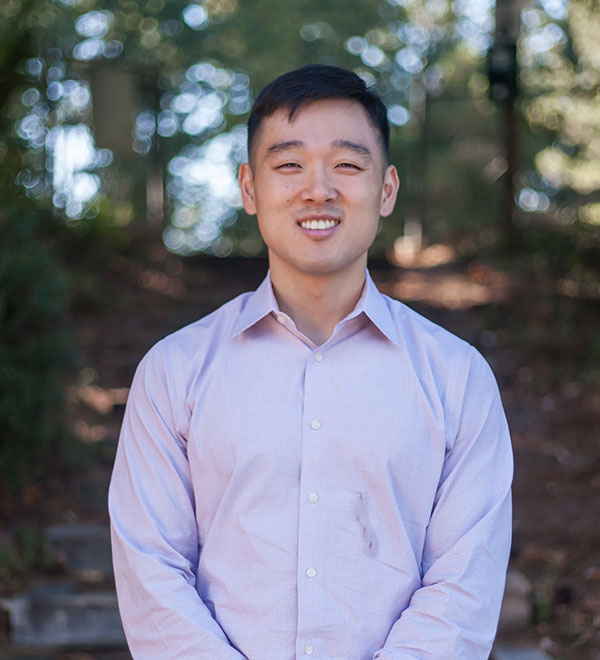
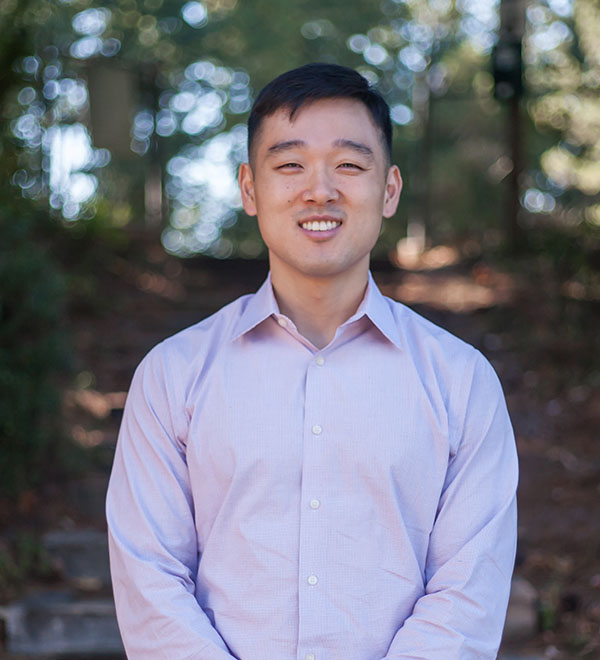
updates

diff --git a/imnew.html b/imnew.html
@@ -287,7 +287,7 @@
 					<h2>Join us for Sunday celebration</h2>
 				</div>
 				<div class="twelve column bottom_buffer centered">
-					<p>Our Sunday celebrations are prayerful, Spirit-filled, Bible-based times of worship, teaching and breaking bread together. We would love to see you this Sunday.  You can find us at the following times and locations:</p>
+					<p>One of the best ways to get to know our community is to visit us on a Sunday.  Our Sunday celebrations are prayerful, Spirit-filled, Bible-based times of worship, teaching and breaking bread together. We would love to see you this Sunday.  You can find us at the following times and locations:</p>
 				</div>
 				<div class="six column centered bottom_buffer">
 					<h4 class="bottom_buffer">Midtown Service<br>11:00 AM</h4>
@@ -301,7 +301,7 @@
 					<p><i>Service for professionals, married couples and families. Sunday school offered for +4yo. Cry room available for younger children.</i></p>
 					<p>Westminster Presbyterian Church<br>
 					<a>1438 Sheridan Road NE<br>Atlanta, GA 30324</a></p>
-					<p class="top_buffer"><a class="primary_button" id="kids_button">Parents, need childcare?</a></p>
+					<p class="top_buffer"><a class="primary_button" id="kids_button">Parents, have kids?</a></p>
 				</div>
 			</div>
 		</div>
@@ -367,7 +367,7 @@
 		<div class="full_container">
 			<div class="container end_div top_buffer">
 				<div class="twelve column block_title">
-					<h2>Learn more about us</h2>
+					<h2>Learn More About Us</h2>
 				</div>
 				<div class="four column learn_more_link">
 					<a>

diff --git a/story.html b/story.html
@@ -82,7 +82,7 @@
 		background-size: 100% auto;
 		position: relative;
 		float: left;
-		padding: 100px 0 50px 0;
+		padding: 100px 0 100px 0;
 	}
 
 	.full_container#story_block_3 {
@@ -93,7 +93,7 @@
 		background-size: 100% auto;
 		position: relative;
 		float: left;
-		padding: 150px 0 150px 0;
+		padding: 100px 0 200px 0;
 	}
 
 
@@ -214,10 +214,10 @@
 			</div>
 		</div>
 		<div class="full_container story_block"  id="story_block_2">
-			<div class="two column">
+			<div class="three column">
 				<p></p>
 			</div>
-			<div class="five column">
+			<div class="four column">
 				<p class="emphasis"><i>On August 15, 2004</i></p>
 				<p>Journey Church’s doors opened for its very first Sunday service.  The Lord gave Journey this mission:  To multiply, mobilize, and mature followers of Jesus Christ in a church planting movement.</p>
 				<p>Since then, God has used Journey to reach the campuses of Georgia Tech, Emory University, Georgia State University, and Oxford College.  Unexpectedly, as college students have graduated, many felt God call them to plant roots in Atlanta and build up the body at Journey.  This was vital to Journey’s transformation from a solely college church to a multi-generational church with working professionals and families.</p>

diff --git a/staff.html b/staff.html
@@ -329,7 +329,7 @@
 				<p class="staff_title">College Pastor &amp; Missions Coordinator</p>
 			</div>
 			<div class="three column staff_thumb" id="jennifer">
-				<img  src="images/leadership/Amy_I.jpg">
+				<img  src="images/leadership/Jen_I.jpg">
 				<h4>Jennifer Hogan</h4>
 				<p class="staff_title">Deacon</p>
 			</div>
@@ -404,7 +404,7 @@
 				</div>
 				<div class="staff_description" id="jennifer_description">
 					<div class="ten column one column_left">
-						<img src="images/leadership/Amy_F.jpg">
+						<img src="images/leadership/Jen_F.jpg">
 					</div>
 					<div class="ten column one column_left top_buffer">
 						<p class="position">Deacon</p>
